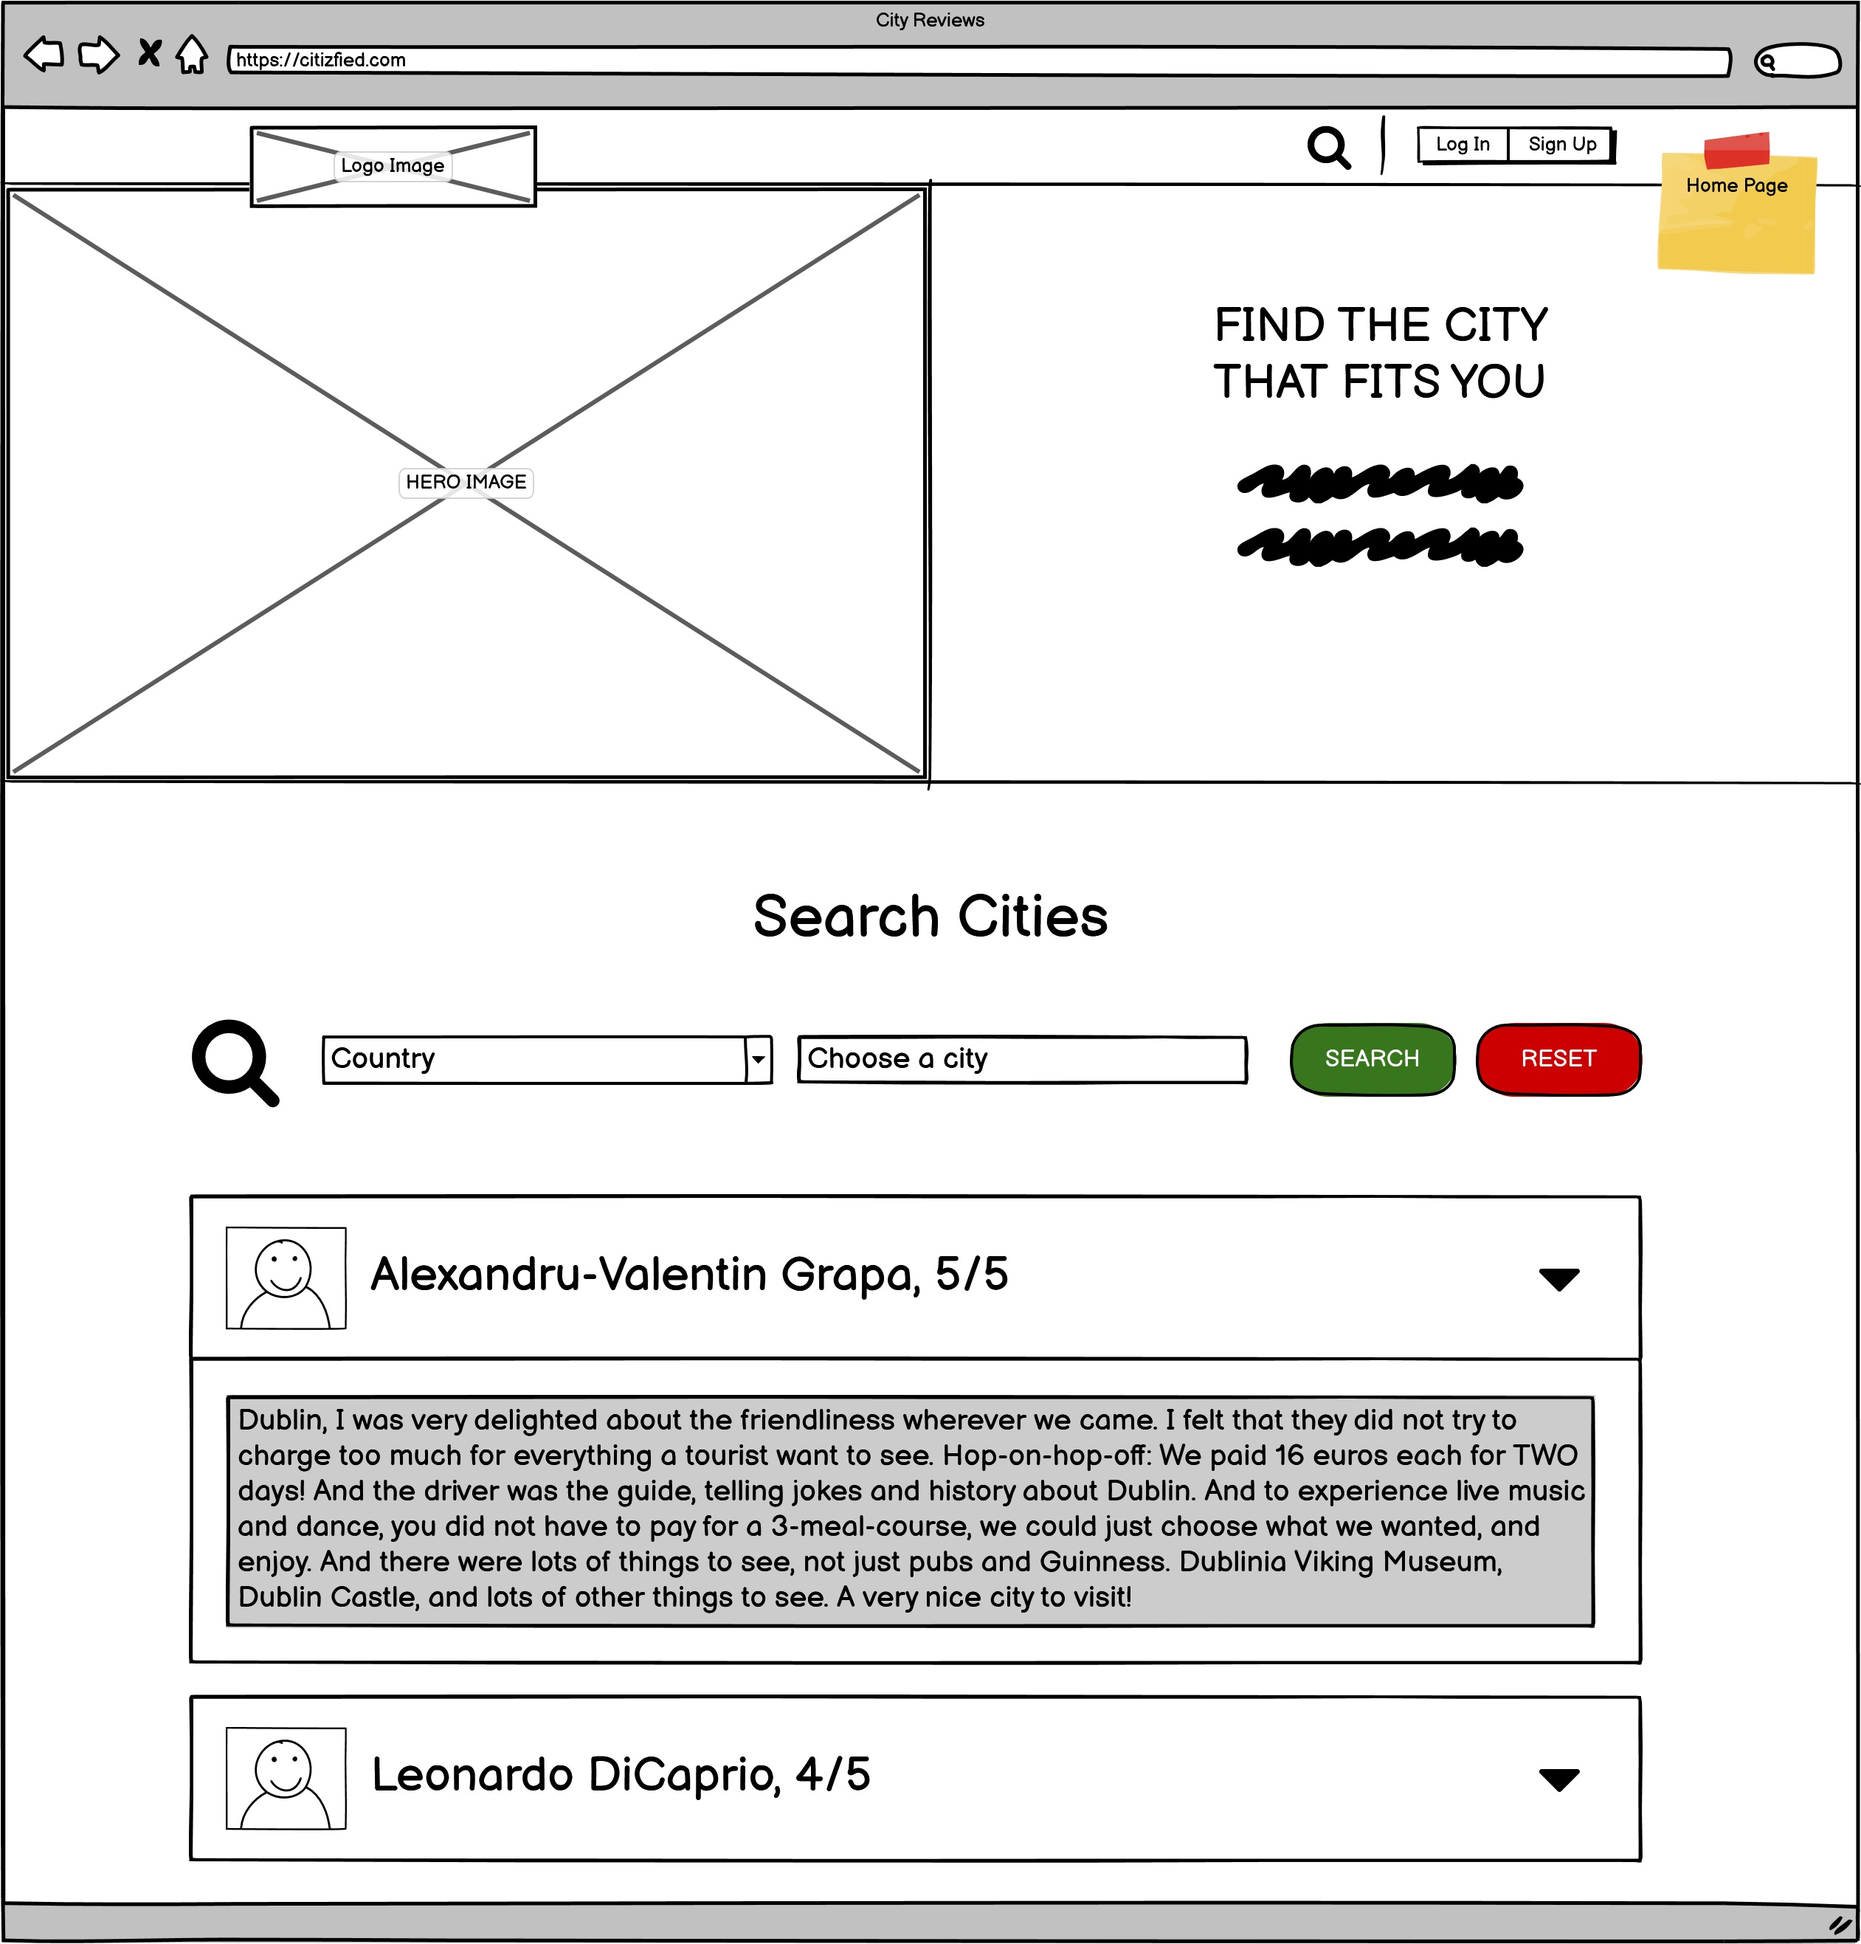
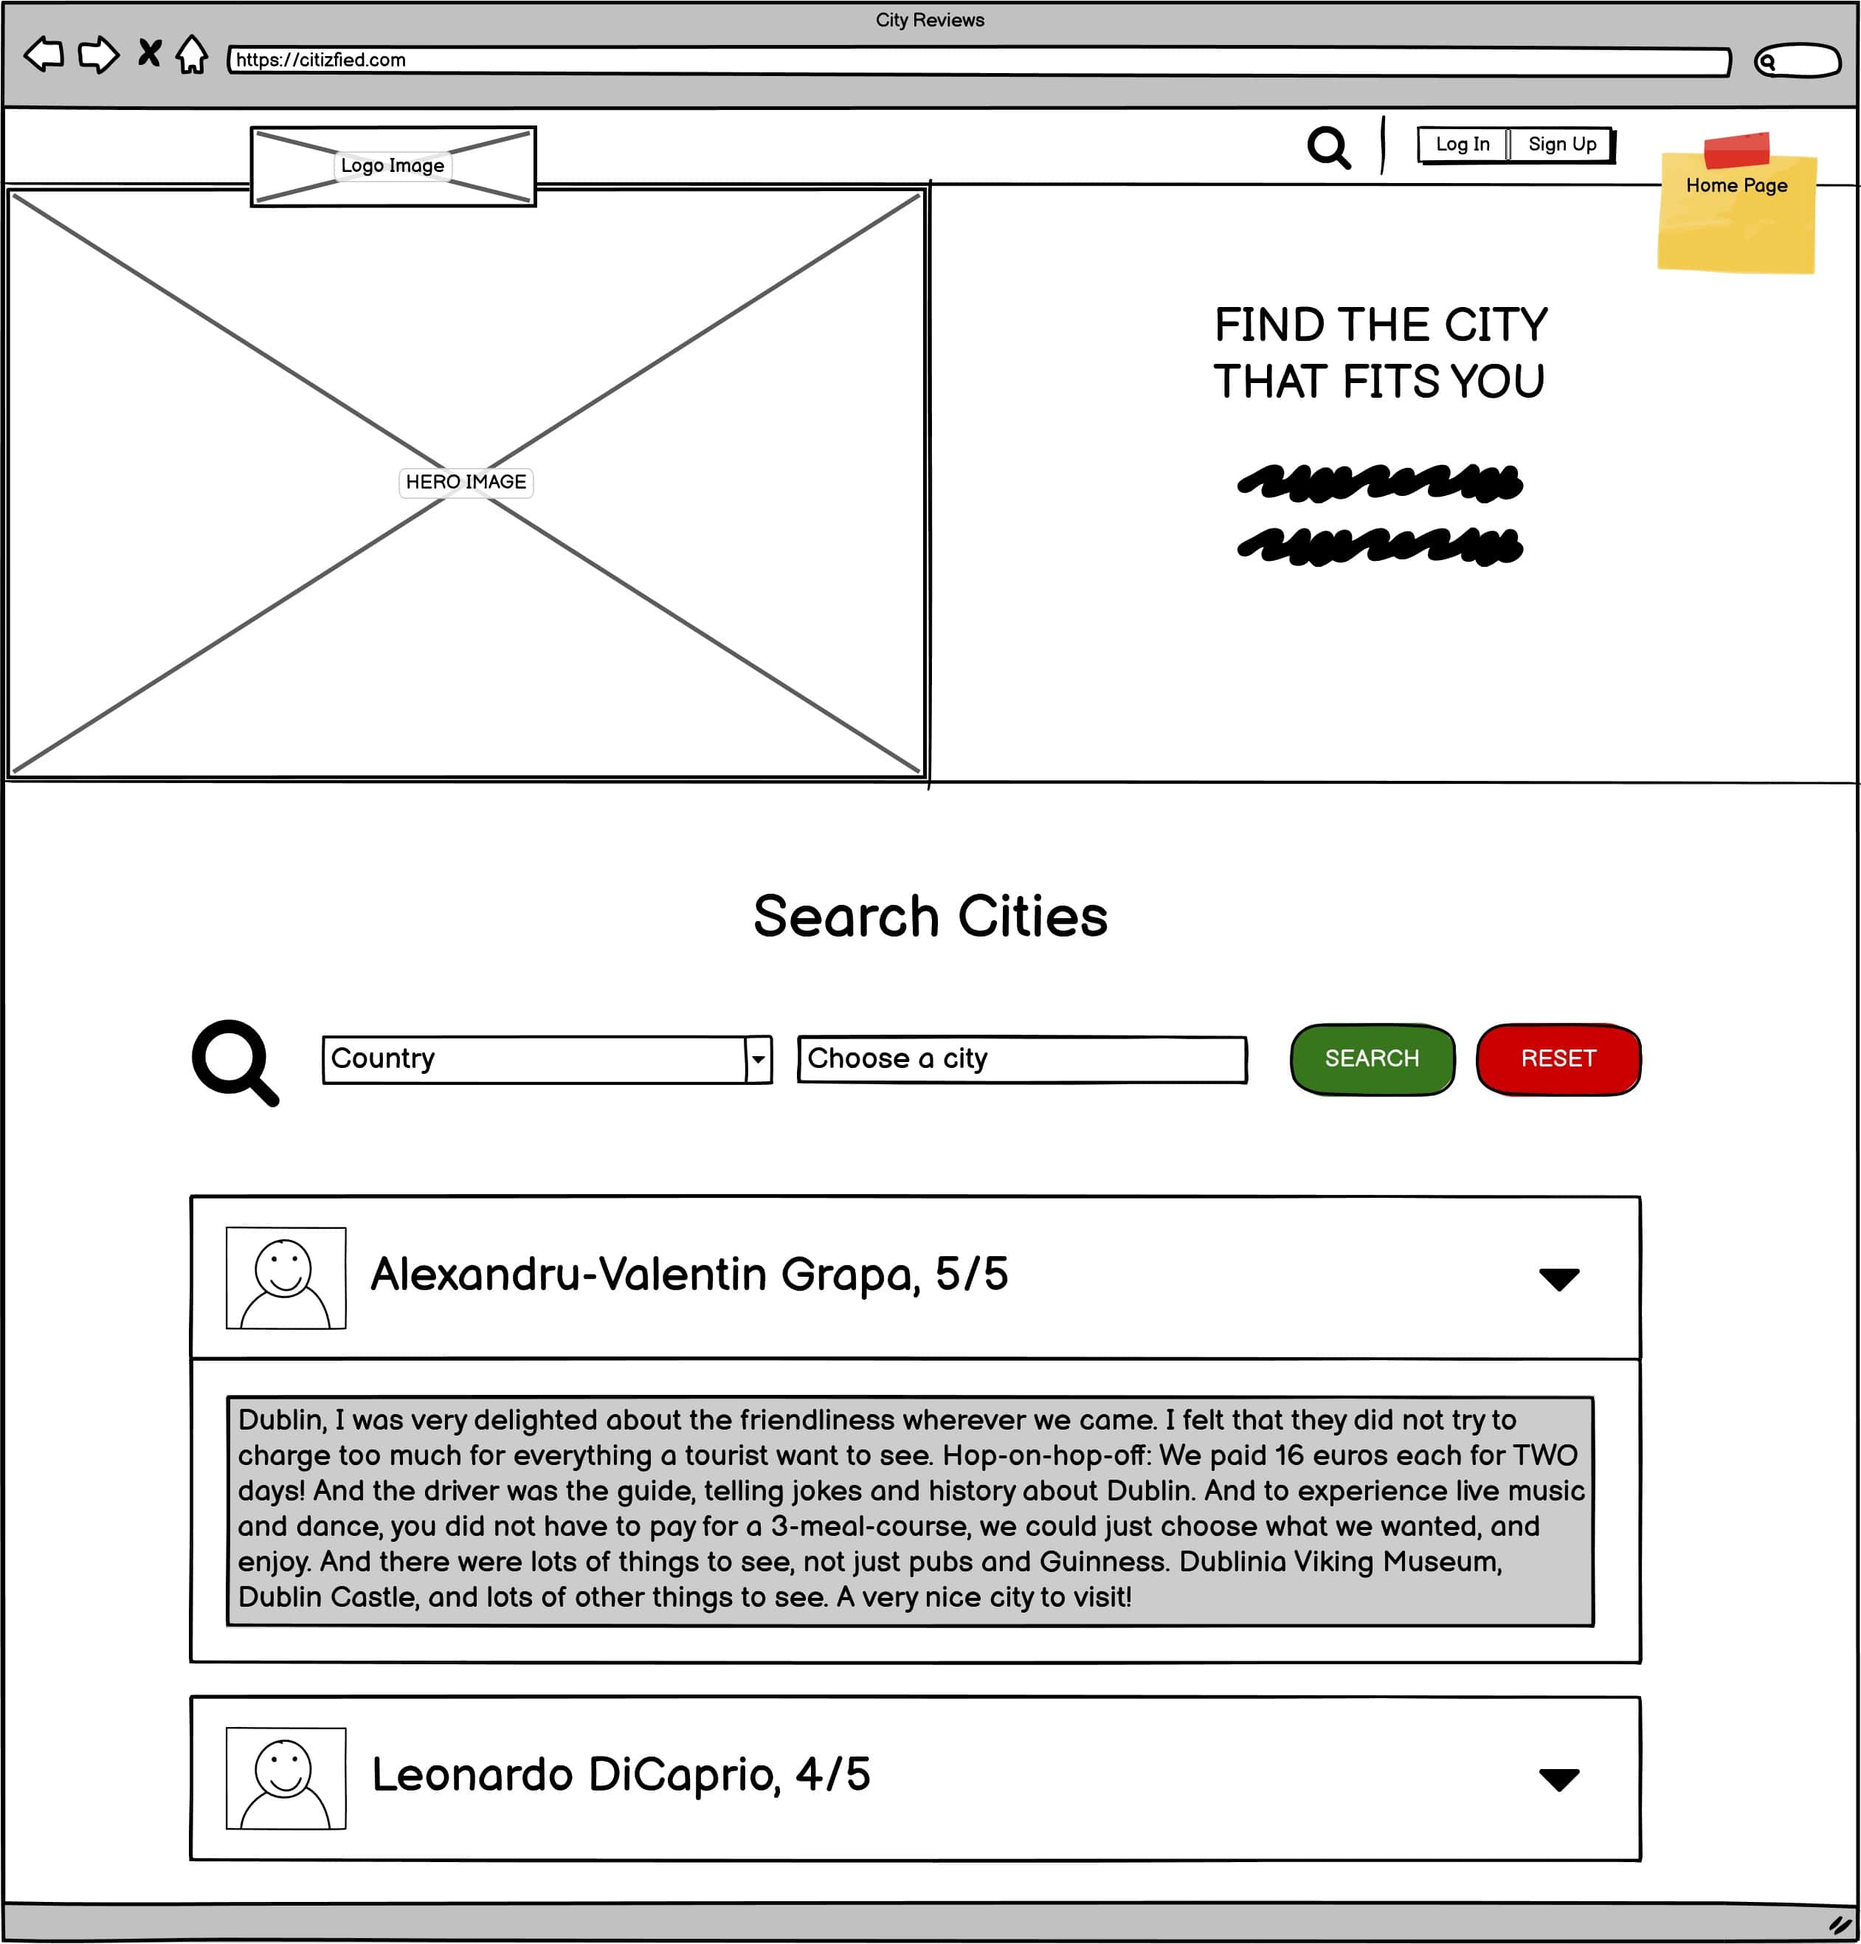
Compress all images and add Media and Iconography to README.md

diff --git a/README.md b/README.md
@@ -86,8 +86,12 @@ The website is designed to be intuitive and learnable
   * [Mukta](https://fonts.google.com/specimen/Mukta?query=mukta)
 
 * Media
+  
+  * Images used throughout the project are relevant to the purpose of the website.
+  * All images have been resized and compressed in order to boost the UX flow.
 
 * Iconography
+  * Icons have been used throughout the website in order to boost the UX efficiency.
 
 ### __Features__
 
